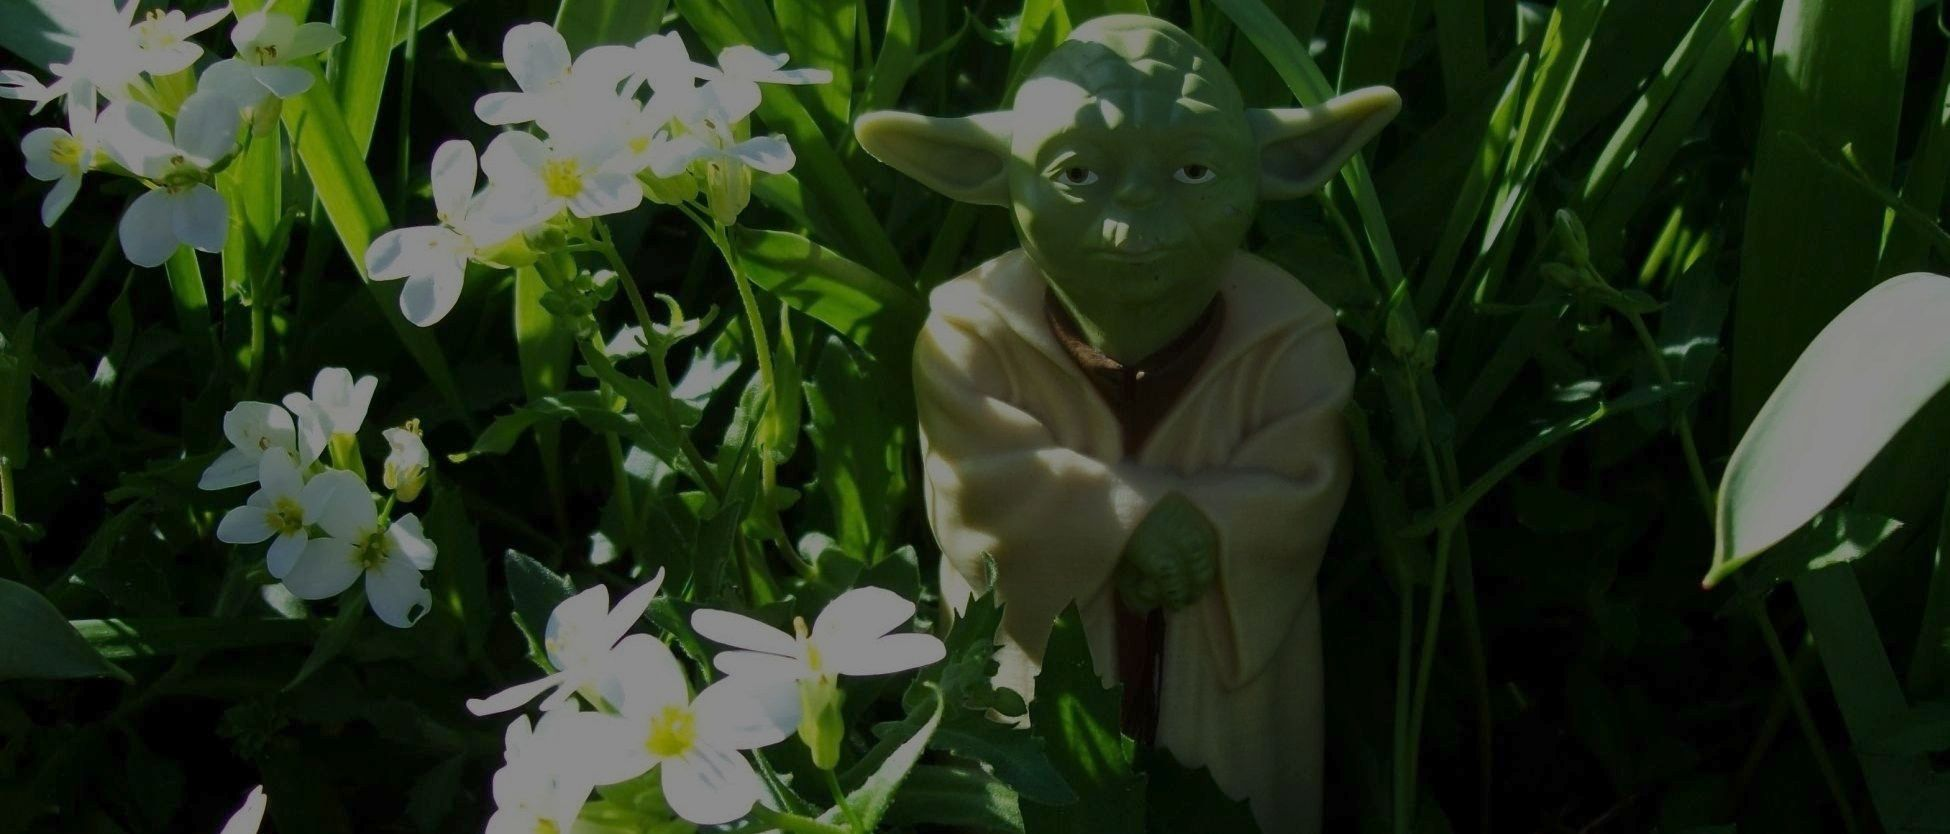
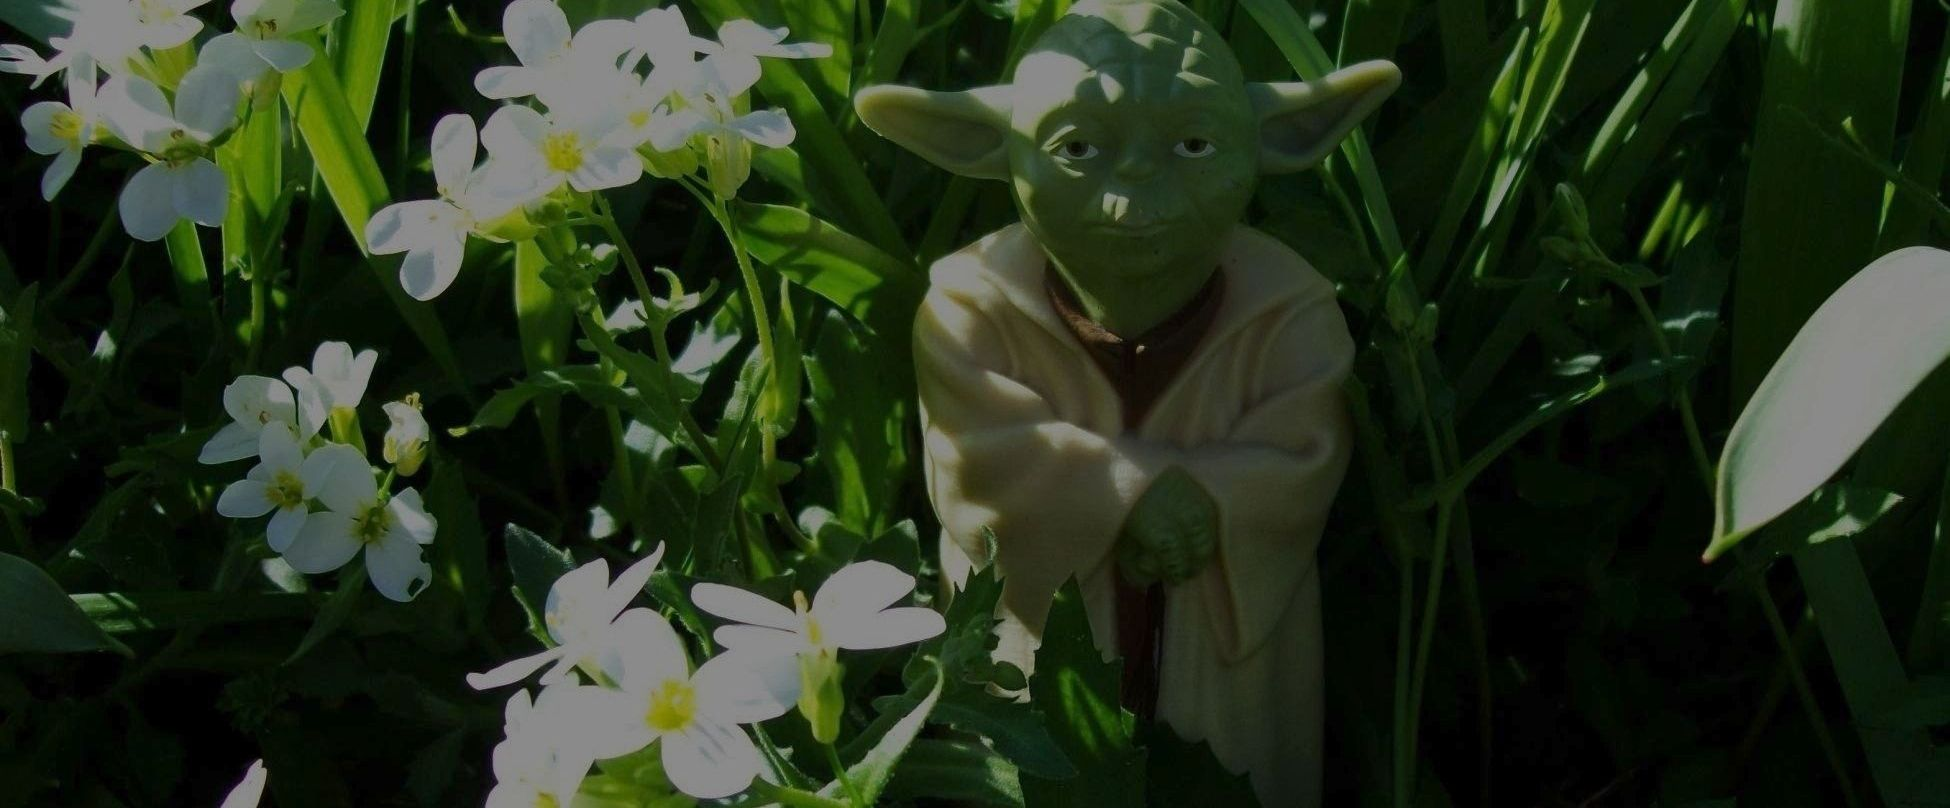
img

diff --git a/css/clean-blog.min.css b/css/clean-blog.min.css
@@ -4,4 +4,4 @@
  * Licensed under Apache 2.0 (https://github.com/IronSummitMedia/startbootstrap/blob/gh-pages/LICENSE)
  */
 
-body{font-family:Lora,'Times New Roman',serif;font-size:20px;color:#404040}p{line-height:1.5;margin:30px 0}h1,h2,h3,h4,h5,h6{font-family:'Open Sans','Helvetica Neue',Helvetica,Arial,sans-serif;font-weight:800}a{color:#404040;text-decoration:none}a:hover,a:focus{color:#23527c;text-decoration:none;border-bottom-color:#23527c}p a{border-bottom:1px dotted #404040}a img:hover,a img:focus{cursor:zoom-in}blockquote{color:gray;font-style:italic}hr.small{max-width:100px;margin:15px auto;border-width:4px;border-color:#fff}.navbar-custom{background:#fff;position:absolute;top:0;left:0;width:100%;z-index:3;font-family:'Open Sans','Helvetica Neue',Helvetica,Arial,sans-serif}.navbar-custom .navbar-brand{font-weight:800}.navbar-custom .nav li a{text-transform:uppercase;font-size:12px;font-weight:800;letter-spacing:1px}@media only screen and (min-width:768px){.navbar-custom{background:0 0;border-bottom:1px solid transparent}.navbar-custom .navbar-brand{color:#fff;padding:20px}.navbar-custom .navbar-brand:hover,.navbar-custom .navbar-brand:focus{color:rgba(255,255,255,.8)}.navbar-custom .nav li a{color:#fff;padding:20px}.navbar-custom .nav li a:hover,.navbar-custom .nav li a:focus{color:rgba(255,255,255,.8)}}@media only screen and (min-width:1170px){.navbar-custom{-webkit-transition:background-color .3s;-moz-transition:background-color .3s;transition:background-color .3s;-webkit-transform:translate3d(0,0,0);-moz-transform:translate3d(0,0,0);-ms-transform:translate3d(0,0,0);-o-transform:translate3d(0,0,0);transform:translate3d(0,0,0);-webkit-backface-visibility:hidden;backface-visibility:hidden}.navbar-custom.is-fixed{position:fixed;top:-61px;background-color:rgba(255,255,255,.9);border-bottom:1px solid #f2f2f2;-webkit-transition:-webkit-transform .3s;-moz-transition:-moz-transform .3s;transition:transform .3s}.navbar-custom.is-fixed .navbar-brand{color:#404040}.navbar-custom.is-fixed .navbar-brand:hover,.navbar-custom.is-fixed .navbar-brand:focus{color:#23527c}.navbar-custom.is-fixed .nav li a{color:#404040}.navbar-custom.is-fixed .nav li a:hover,.navbar-custom.is-fixed .nav li a:focus{color:#23527c}.navbar-custom.is-visible{-webkit-transform:translate3d(0,100%,0);-moz-transform:translate3d(0,100%,0);-ms-transform:translate3d(0,100%,0);-o-transform:translate3d(0,100%,0);transform:translate3d(0,100%,0)}}.intro-header{background:no-repeat center center;background-color:gray;background-attachment:scroll;-webkit-background-size:cover;-moz-background-size:cover;background-size:cover;-o-background-size:cover;margin-bottom:50px}.intro-header .site-heading,.intro-header .post-heading,.intro-header .page-heading{padding:100px 0 50px;color:#fff}@media only screen and (min-width:768px){.intro-header .site-heading,.intro-header .post-heading,.intro-header .page-heading{padding:150px 0}}.intro-header .site-heading,.intro-header .page-heading{text-align:center}.intro-header .site-heading h1,.intro-header .page-heading h1{margin-top:0;font-size:50px}.intro-header .site-heading .subheading,.intro-header .page-heading .subheading{font-size:24px;line-height:1.1,display:block;font-family:'Open Sans','Helvetica Neue',Helvetica,Arial,sans-serif;font-weight:300;margin:10px 0 0}@media only screen and (min-width:768px){.intro-header .site-heading h1,.intro-header .page-heading h1{font-size:80px}}.intro-header .post-heading h1{font-size:35px}.intro-header .post-heading .subheading,.intro-header .post-heading .meta{line-height:1.1;display:block}.intro-header .post-heading .subheading{font-family:'Open Sans','Helvetica Neue',Helvetica,Arial,sans-serif;font-size:24px;margin:10px 0 30px;font-weight:600}.intro-header .post-heading .meta{font-family:Lora,'Times New Roman',serif;font-style:italic;font-weight:300;font-size:20px}.intro-header .post-heading .meta a{color:#fff}@media only screen and (min-width:768px){.intro-header .post-heading h1{font-size:55px}.intro-header .post-heading .subheading{font-size:30px}}.post-preview>a{color:#404040}.post-preview>a:hover,.post-preview>a:focus{text-decoration:none;color:#23527c}.post-preview>a>.post-title{font-size:30px;margin-top:30px;margin-bottom:10px}.post-preview>a>.post-subtitle{margin:0;font-weight:300;margin-bottom:10px}.post-preview>.post-meta{color:gray;font-size:18px;font-style:italic;margin-top:0}.post-preview>.post-meta>a{text-decoration:none;color:#404040}.post-preview>.post-meta>a:hover,.post-preview>.post-meta>a:focus{color:#23527c;text-decoration:underline}@media only screen and (min-width:768px){.post-preview>a>.post-title{font-size:36px}}.section-heading{font-size:36px;margin-top:60px;font-weight:700}.caption{text-align:center;font-size:14px;padding:10px;font-style:italic;margin:0;display:block;border-bottom-right-radius:5px;border-bottom-left-radius:5px}footer{padding:50px 0 65px}footer .list-inline{margin:0;padding:0}footer .copyright{font-size:14px;text-align:center;margin-bottom:0}.floating-label-form-group{font-size:14px;position:relative;margin-bottom:0;padding-bottom:.5em;border-bottom:1px solid #eee}.floating-label-form-group input,.floating-label-form-group textarea{z-index:1;position:relative;padding-right:0;padding-left:0;border:none;border-radius:0;font-size:1.5em;background:0 0;box-shadow:none!important;resize:none}.floating-label-form-group label{display:block;z-index:0;position:relative;top:2em;margin:0;font-size:.85em;line-height:1.764705882em;vertical-align:middle;vertical-align:baseline;opacity:0;-webkit-transition:top .3s ease,opacity .3s ease;-moz-transition:top .3s ease,opacity .3s ease;-ms-transition:top .3s ease,opacity .3s ease;transition:top .3s ease,opacity .3s ease}.floating-label-form-group::not(:first-child){padding-left:14px;border-left:1px solid #eee}.floating-label-form-group-with-value label{top:0;opacity:1}.floating-label-form-group-with-focus label{color:#23527c}form .row:first-child .floating-label-form-group{border-top:1px solid #eee}.btn{font-family:'Open Sans','Helvetica Neue',Helvetica,Arial,sans-serif;text-transform:uppercase;font-size:14px;font-weight:800;letter-spacing:1px;border-radius:0;padding:15px 25px}.btn-lg{font-size:16px;padding:25px 35px}.btn-default:hover,.btn-default:focus{background-color:#23527c;border:1px solid #23527c;color:#fff}.pager{margin:20px 0 0}.pager li>a,.pager li>span{font-family:'Open Sans','Helvetica Neue',Helvetica,Arial,sans-serif;text-transform:uppercase;font-size:14px;font-weight:800;letter-spacing:1px;padding:10px 5px;background-color:#fff;border-radius:0}@media only screen and (min-width:768px){.pager li>a,.pager li>span{font-size:14px;padding:15px 25px}}.pager li>a:hover,.pager li>a:focus{color:#fff;background-color:#23527c;border:1px solid #23527c}.pager .disabled>a,.pager .disabled>a:hover,.pager .disabled>a:focus,.pager .disabled>span{color:gray;background-color:#404040;cursor:not-allowed}::-moz-selection{color:#fff;text-shadow:none;background:#23527c}::selection{color:#fff;text-shadow:none;background:#23527c}img::selection{color:#fff;background:0 0}img::-moz-selection{color:#fff;background:0 0}body{webkit-tap-highlight-color:#23527c}
+body{font-family:Lora,'Times New Roman',serif;font-size:20px;color:#404040}p{line-height:1.5;margin:30px 0}h1,h2,h3,h4,h5,h6{font-family:'Open Sans','Helvetica Neue',Helvetica,Arial,sans-serif;font-weight:800}a{color:#404040;text-decoration:none}a:hover,a:focus{color:#23527c;text-decoration:none;border-bottom-color:#23527c}p a{border-bottom:1px dotted #404040}a img:hover,a img:focus{cursor:zoom-in}blockquote{color:gray;font-style:italic}hr.small{max-width:100px;margin:15px auto;border-width:4px;border-color:#fff}.navbar-custom{background:#fff;position:absolute;top:0;left:0;width:100%;z-index:3;font-family:'Open Sans','Helvetica Neue',Helvetica,Arial,sans-serif}.navbar-custom .navbar-brand{font-weight:800}.navbar-custom .nav li a{text-transform:uppercase;font-size:12px;font-weight:800;letter-spacing:1px}@media only screen and (min-width:768px){.navbar-custom{background:0 0;border-bottom:1px solid transparent}.navbar-custom .navbar-brand{color:#fff;padding:20px}.navbar-custom .navbar-brand:hover,.navbar-custom .navbar-brand:focus{color:rgba(255,255,255,.8)}.navbar-custom .nav li a{color:#fff;padding:20px}.navbar-custom .nav li a:hover,.navbar-custom .nav li a:focus{color:rgba(255,255,255,.8)}}@media only screen and (min-width:1170px){.navbar-custom{-webkit-transition:background-color .3s;-moz-transition:background-color .3s;transition:background-color .3s;-webkit-transform:translate3d(0,0,0);-moz-transform:translate3d(0,0,0);-ms-transform:translate3d(0,0,0);-o-transform:translate3d(0,0,0);transform:translate3d(0,0,0);-webkit-backface-visibility:hidden;backface-visibility:hidden}.navbar-custom.is-fixed{position:fixed;top:-61px;background-color:rgba(255,255,255,.9);border-bottom:1px solid #f2f2f2;-webkit-transition:-webkit-transform .3s;-moz-transition:-moz-transform .3s;transition:transform .3s}.navbar-custom.is-fixed .navbar-brand{color:#404040}.navbar-custom.is-fixed .navbar-brand:hover,.navbar-custom.is-fixed .navbar-brand:focus{color:#23527c}.navbar-custom.is-fixed .nav li a{color:#404040}.navbar-custom.is-fixed .nav li a:hover,.navbar-custom.is-fixed .nav li a:focus{color:#23527c}.navbar-custom.is-visible{-webkit-transform:translate3d(0,100%,0);-moz-transform:translate3d(0,100%,0);-ms-transform:translate3d(0,100%,0);-o-transform:translate3d(0,100%,0);transform:translate3d(0,100%,0)}}.intro-header{background:no-repeat center center;background-color:gray;background-attachment:scroll;-webkit-background-size:cover;-moz-background-size:cover;background-size:cover;-o-background-size:cover;margin-bottom:50px}.intro-header .site-heading,.intro-header .post-heading,.intro-header .page-heading{padding:100px 0 50px;color:#fff}@media only screen and (min-width:768px){.intro-header .site-heading,.intro-header .post-heading,.intro-header .page-heading{padding:110px 0}}.intro-header .site-heading,.intro-header .page-heading{text-align:center}.intro-header .site-heading h1,.intro-header .page-heading h1{margin-top:0;font-size:50px}.intro-header .site-heading .subheading,.intro-header .page-heading .subheading{font-size:24px;line-height:1.1,display:block;font-family:'Open Sans','Helvetica Neue',Helvetica,Arial,sans-serif;font-weight:300;margin:10px 0 0}@media only screen and (min-width:768px){.intro-header .site-heading h1,.intro-header .page-heading h1{font-size:80px}}.intro-header .post-heading h1{font-size:35px}.intro-header .post-heading .subheading,.intro-header .post-heading .meta{line-height:1.1;display:block}.intro-header .post-heading .subheading{font-family:'Open Sans','Helvetica Neue',Helvetica,Arial,sans-serif;font-size:24px;margin:10px 0 30px;font-weight:600}.intro-header .post-heading .meta{font-family:Lora,'Times New Roman',serif;font-style:italic;font-weight:300;font-size:20px}.intro-header .post-heading .meta a{color:#fff}@media only screen and (min-width:768px){.intro-header .post-heading h1{font-size:55px}.intro-header .post-heading .subheading{font-size:30px}}.post-preview>a{color:#404040}.post-preview>a:hover,.post-preview>a:focus{text-decoration:none;color:#23527c}.post-preview>a>.post-title{font-size:30px;margin-top:30px;margin-bottom:10px}.post-preview>a>.post-subtitle{margin:0;font-weight:300;margin-bottom:10px}.post-preview>.post-meta{color:gray;font-size:18px;font-style:italic;margin-top:0}.post-preview>.post-meta>a{text-decoration:none;color:#404040}.post-preview>.post-meta>a:hover,.post-preview>.post-meta>a:focus{color:#23527c;text-decoration:underline}@media only screen and (min-width:768px){.post-preview>a>.post-title{font-size:36px}}.section-heading{font-size:36px;margin-top:60px;font-weight:700}.caption{text-align:center;font-size:14px;padding:10px;font-style:italic;margin:0;display:block;border-bottom-right-radius:5px;border-bottom-left-radius:5px}footer{padding:50px 0 65px}footer .list-inline{margin:0;padding:0}footer .copyright{font-size:14px;text-align:center;margin-bottom:0}.floating-label-form-group{font-size:14px;position:relative;margin-bottom:0;padding-bottom:.5em;border-bottom:1px solid #eee}.floating-label-form-group input,.floating-label-form-group textarea{z-index:1;position:relative;padding-right:0;padding-left:0;border:none;border-radius:0;font-size:1.5em;background:0 0;box-shadow:none!important;resize:none}.floating-label-form-group label{display:block;z-index:0;position:relative;top:2em;margin:0;font-size:.85em;line-height:1.764705882em;vertical-align:middle;vertical-align:baseline;opacity:0;-webkit-transition:top .3s ease,opacity .3s ease;-moz-transition:top .3s ease,opacity .3s ease;-ms-transition:top .3s ease,opacity .3s ease;transition:top .3s ease,opacity .3s ease}.floating-label-form-group::not(:first-child){padding-left:14px;border-left:1px solid #eee}.floating-label-form-group-with-value label{top:0;opacity:1}.floating-label-form-group-with-focus label{color:#23527c}form .row:first-child .floating-label-form-group{border-top:1px solid #eee}.btn{font-family:'Open Sans','Helvetica Neue',Helvetica,Arial,sans-serif;text-transform:uppercase;font-size:14px;font-weight:800;letter-spacing:1px;border-radius:0;padding:15px 25px}.btn-lg{font-size:16px;padding:25px 35px}.btn-default:hover,.btn-default:focus{background-color:#23527c;border:1px solid #23527c;color:#fff}.pager{margin:20px 0 0}.pager li>a,.pager li>span{font-family:'Open Sans','Helvetica Neue',Helvetica,Arial,sans-serif;text-transform:uppercase;font-size:14px;font-weight:800;letter-spacing:1px;padding:10px 5px;background-color:#fff;border-radius:0}@media only screen and (min-width:768px){.pager li>a,.pager li>span{font-size:14px;padding:15px 25px}}.pager li>a:hover,.pager li>a:focus{color:#fff;background-color:#23527c;border:1px solid #23527c}.pager .disabled>a,.pager .disabled>a:hover,.pager .disabled>a:focus,.pager .disabled>span{color:gray;background-color:#404040;cursor:not-allowed}::-moz-selection{color:#fff;text-shadow:none;background:#23527c}::selection{color:#fff;text-shadow:none;background:#23527c}img::selection{color:#fff;background:0 0}img::-moz-selection{color:#fff;background:0 0}body{webkit-tap-highlight-color:#23527c}

diff --git a/css/clean-blog.css b/css/clean-blog.css
@@ -156,7 +156,7 @@ hr.small {
   .intro-header .site-heading,
   .intro-header .post-heading,
   .intro-header .page-heading {
-    padding: 150px 0;
+    padding: 110px 0;
   }
 }
 .intro-header .site-heading,

diff --git a/less/clean-blog.less b/less/clean-blog.less
@@ -173,7 +173,7 @@ hr.small {
 		padding: 100px 0 50px;
 		color: white;
 		@media only screen and (min-width: 768px) {
-			padding: 150px 0;
+			padding: 110px 0;
 		}
 	}
 	.site-heading,
